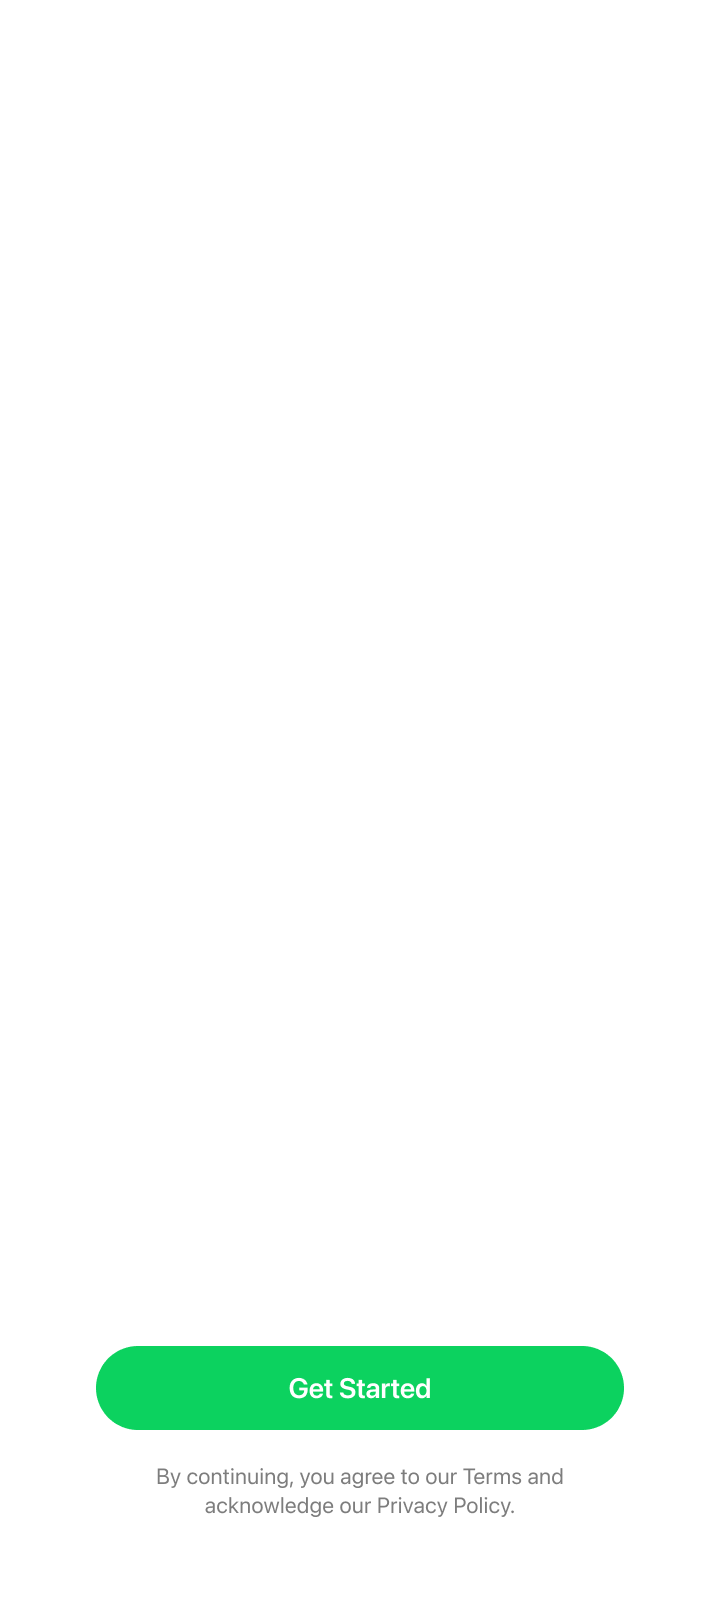
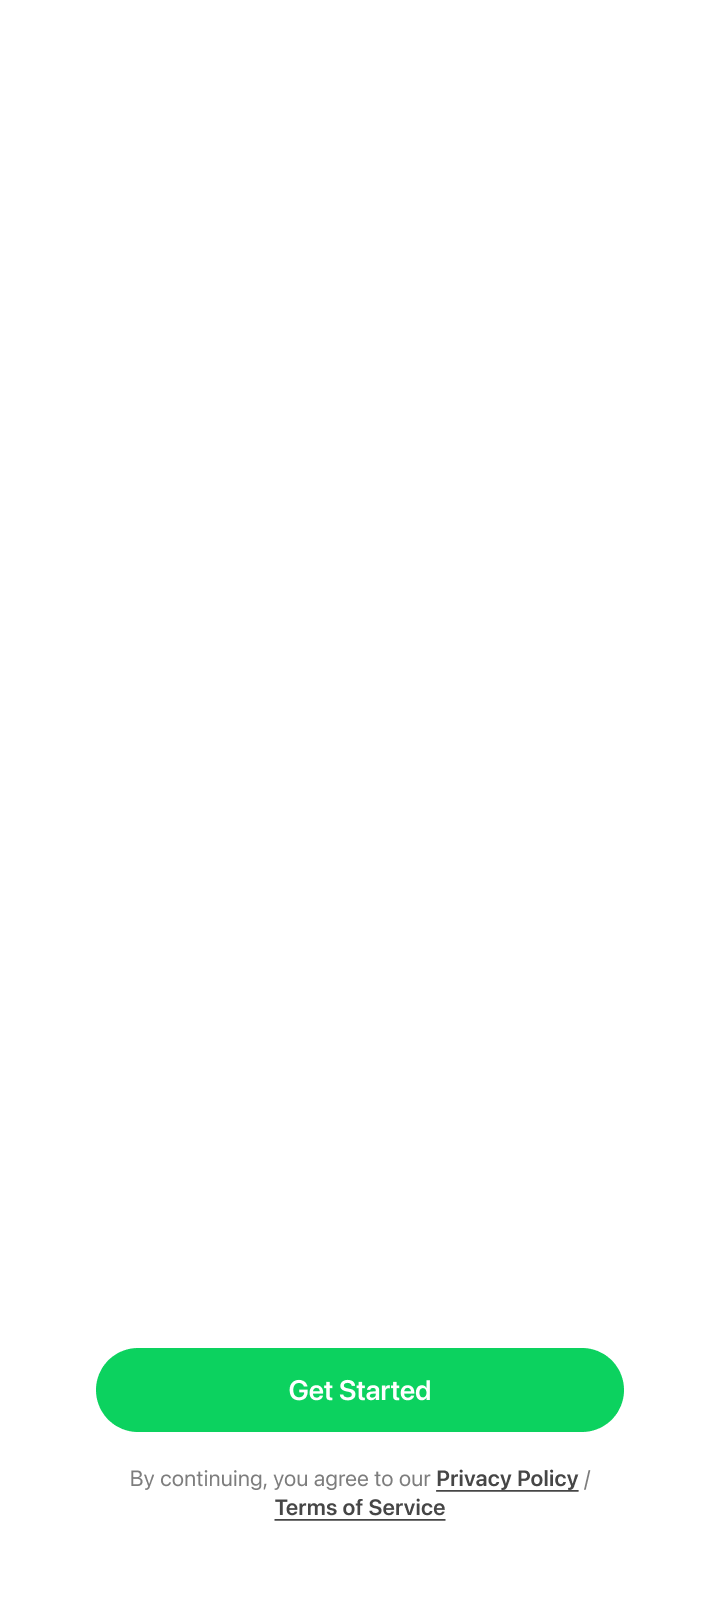
V1 C1: Part 2 motion polish and new policy style
- Red/green glows start with the ringing ripple, red first then green 0.4s later
- Ringing ripple on the answer handle until it slides to Decline
- Dialog pops in with the reference jelly (damped squash/stretch from the centre),
  then the icon, title, number line, description bar and Vee pop in one by one
- Dialog holds longer so users can read it before the auto-decline
- On Decline the red glow stays put and only the green glow fades out
- After Decline the speech bubble floats in sync with Vee's idle loop
- Bottom policy uses the new Figma style (Privacy Policy / Terms of Service)

Changed region(s): [[0.1833, 0.9062, 0.7944, 0.9688], [0.3972, 0.8438, 0.6111, 0.875]]

diff --git a/index.html b/index.html
@@ -178,15 +178,34 @@ h1{font-size:24px;line-height:31px;font-weight:600;margin:0;text-wrap:balance}
 @keyframes shl{0%,100%{opacity:.35;transform:none}50%{opacity:.9;transform:translateX(-2px)}}
 @keyframes shr{0%,100%{opacity:.35;transform:none}50%{opacity:.9;transform:translateX(2px)}}
 .v1.nosearch.s4 .chev,.v1.nosearch.go .chev{opacity:0;animation:none}
-/* C1 Part 2 is non-interactive (2026-11-16): the handle is part of the animation (no drag), no chevrons. The pill ends glow (red, then green), then the handle slides to Decline while red spreads across the pill, and the call declines. */
+/* C1 Part 2 is non-interactive (2026-11-16): the handle is part of the animation (no drag), no chevrons. The pill ends glow (red, then green), then the handle slides to Decline while the green glow fades out (red stays put), and the call declines. */
 .v1.nosearch .chev{display:none}
 .v1.nosearch .handle{pointer-events:none;cursor:default}
-.v1.nosearch.glow .eg.l{animation:egin .4s ease-out .6s both} .v1.nosearch.glow .eg.r{animation:egin .4s ease-out 1.2s both}
+/* C1 dialog pop = jelly bounce (2026-11-16, per reference recording): grows from small with a slight tilt, squashes/stretches a few times, settles in ~0.75s */
+.v1.nosearch .c3{transform-origin:50% 50%}
+/* Dialog jelly (2026-11-16, values from the reference dialog-banner.html): grows in over 0.3s, then a damped squash/stretch
+   sx = 1+j, sy = 1-0.9j, j = 0.17·e^(-4.2u)·sin(15u) from u = 0.2s; no tilt (kept centred). Contents pop in one by one from 0.5s,
+   0.1s apart, each 0.35s: scale 0.5→1 with back-out overshoot (2.2), fade in over the first half. Keyframes are generated in JS (DLG_*). */
+.v1 .dsh{background-size:184px 122px;background-position:0 0}
+.v1 .dp{position:absolute;inset:0;background-size:184px 122px;background-position:0 0;background-repeat:no-repeat}
+.v1.nosearch.anim.s3 .c3{animation:dlgJelly var(--dlgD) linear both}
+.v1.nosearch.anim.s3 .dp0{animation:dlgP0 var(--dlgD) linear both} .v1.nosearch.anim.s3 .dp1{animation:dlgP1 var(--dlgD) linear both}
+.v1.nosearch.anim.s3 .dp2{animation:dlgP2 var(--dlgD) linear both} .v1.nosearch.anim.s3 .dp3{animation:dlgP3 var(--dlgD) linear both}
+.v1.nosearch.anim.s3 .dp4{animation:dlgP4 var(--dlgD) linear both}
+/* Glows start with the ringing ripple (2026-11-16): red (Decline) fades in with the ripple, green (Answer) follows 0.4s later so the light sweeps left to right; each 0.6s, then they stay lit while the dialog shows */
+.v1.nosearch.s1 .eg.l{animation:egin .6s ease-in-out both} .v1.nosearch.s1 .eg.r{animation:egin .6s ease-in-out .4s both}
+.v1.nosearch.glow .eg{opacity:1;animation:none}
 @keyframes egin{from{opacity:0}to{opacity:1}}
+/* Ringing ripple on the answer handle: two soft white rings, looping while the phone rings, stop once the handle slides to Decline */
+.v1.nosearch .handle::before,.v1.nosearch .handle::after{content:'';position:absolute;inset:0;border-radius:50%;pointer-events:none;opacity:0}
+.v1.nosearch.s1 .handle::before,.v1.nosearch.s1 .handle::after,.v1.nosearch.glow:not(.spread) .handle::before,.v1.nosearch.glow:not(.spread) .handle::after{opacity:1;animation:hripple 1.4s ease-out infinite}
+.v1.nosearch.s1 .handle::after,.v1.nosearch.glow:not(.spread) .handle::after{animation-delay:.7s}
+@keyframes hripple{0%{box-shadow:0 0 0 0 rgba(255,255,255,.6)}100%{box-shadow:0 0 0 12px rgba(255,255,255,0)}}
+.v1.nosearch.glow.still .handle::before{animation:none;box-shadow:0 0 0 5px rgba(255,255,255,.3)} .v1.nosearch.glow.still .handle::after{animation:none;opacity:0}
 .v1.nosearch.glow.still .eg{opacity:1;animation:none}
-.v1.nosearch.spread .eg.l,.v1.nosearch.go .eg.l{opacity:1;animation:none;width:160px;border-radius:28px;background:linear-gradient(90deg,rgba(255,77,94,.9),rgba(255,77,94,.4))}
-.v1.nosearch.spread .eg.l{transition:width .5s cubic-bezier(.5,0,.3,1)}
-.v1.nosearch.spread .eg.r{animation:egout .3s ease-in both} .v1.nosearch.go .eg.r{opacity:0;animation:none}
+/* Decline slide (2026-11-16): the red glow stays as it is (no stretch across the pill); only the green glow fades out while the handle slides left */
+.v1.nosearch.spread .eg.l,.v1.nosearch.go .eg.l{opacity:1;animation:none}
+.v1.nosearch.spread .eg.r{animation:egout .45s ease-out both} .v1.nosearch.go .eg.r{opacity:0;animation:none}
 @keyframes egout{from{opacity:1}to{opacity:0}}
 
 .v1 .handle.spring{transition:left .35s cubic-bezier(.3,1.5,.5,1)}
@@ -224,6 +243,10 @@ h1{font-size:24px;line-height:31px;font-weight:600;margin:0;text-wrap:balance}
 @keyframes bob{0%,100%{transform:none}50%{transform:translateY(-3px) rotate(-4deg)}}
 @keyframes bubin{0%{opacity:0;transform:scale(.3)}100%{opacity:1;transform:none}}
 @keyframes fadeclip{to{opacity:0}}
+.v1.nosearch .bub{will-change:transform,translate}
+/* C1 after Decline (2026-11-16): the bubble breathes with Vee. JS (veeSync) reads the Vee Lottie's current frame on every enterFrame and moves the bubble
+   by the same vertical offset Vee's body has in its idle loop (frames 240–420 = 3 s at 60 fps).
+   Uses the `translate` / `scale` properties so it never fights the pop-in transform. */
 /* ---------- V2: slider on the visible phone-screen rect (x50 y82 w260 h410) ---------- */
 .v2 .afterwrap{position:absolute;inset:0;clip-path:inset(0 0 0 calc((50px + 260px * var(--p))))}
 .v2 .glowl{opacity:var(--g,0);transition:opacity .25s ease-out}
@@ -371,7 +394,7 @@ html.pvon,html.pvon body{overflow:hidden}
 <script>
 const HIDE_C2=true; if(HIDE_C2) document.documentElement.classList.add('hide-c2');
 const A='prototype_assets/';
-const VER='?v=20261116b';
+const VER='?v=20261116d';
 const NOSEARCH=new Set(['c1']); // candidates that skip the Searching beat (phone vibrates instead)
 const BEATS=['Ringing','Searching','Identified','Declined','Answered'];
 const screens=[...document.querySelectorAll('.screen')];
@@ -380,7 +403,19 @@ let ver='v1', playing=true; const sliders=[];
 const bg=(c,f)=>`background-image:url(${A}${f.replace('C',c)}${VER})`;
 const GEO={c1:{C:70,MIN:16,MAX:124,HW:44},c2:{C:68,MIN:16,MAX:120,HW:48}}, G=c=>GEO[c.el.dataset.c]||GEO.c2, TRIG=36; const HINT_AT=600, HINT_LEN=1200, AUTO_NS=3500, P1_LEN=3900; // C1: idle 3.5 s in wait → auto-slide to Decline           // handle left (px) inside the clip
 const T_S2=1500, T_S3=2700, AUTO=4500;
-const GLOW_LEN=1800, SPREAD_LEN=560; // C1 Part 2 (static): glows 0.6–1.6s after the dialog, then the handle slides to Decline as red spreads (0.56s) before the call declines
+/* C1 dialog: parts in reveal order (icon, title, number line, description bar, Vee) with their centres in the 184×122 dialog crop */
+const DLG_PARTS=[{f:'p1_icon',x:32,y:30},{f:'p2_title',x:49,y:53},{f:'p3_number',x:72,y:72},{f:'p4_desc',x:70,y:102},{f:'p5_vee',x:150,y:103}];
+const DLG={grow:.3,s0:.55,jStart:.2,amount:.17,damp:4.2,freq:15,partsAt:.5,gap:.1,partLen:.35,back:2.2,len:1.3};
+(function(){ const cl=x=>x<0?0:x>1?1:x, seg=(t,a,b)=>cl((t-a)/(b-a)), eo=x=>1-Math.pow(1-x,3), eob=(x,s)=>{const c=s+1;return 1+c*Math.pow(x-1,3)+s*Math.pow(x-1,2);}, f=v=>+v.toFixed(4);
+  const N=78; let k='', parts=DLG_PARTS.map(()=>'');
+  for(let i=0;i<=N;i++){ const t=DLG.len*i/N, pc=f(100*i/N)+'%';
+    const p=eo(seg(t,0,DLG.grow)), base=DLG.s0+(1-DLG.s0)*p, u=t-DLG.jStart, j=(u<0||i===N)?0:DLG.amount*Math.exp(-DLG.damp*u)*Math.sin(DLG.freq*u);
+    k+=`${pc}{opacity:${f(p)};transform:scale(${f(base*(1+j))},${f(base*(1-.9*j))})}`;
+    DLG_PARTS.forEach((d,n)=>{ const a=DLG.partsAt+n*DLG.gap, q=seg(t,a,a+DLG.partLen), sc=q<=0?.5:.5+.5*eob(q,DLG.back);
+      parts[n]+=`${pc}{opacity:${f(eo(Math.min(1,q*2)))};transform:scale(${f(sc)})}`; }); }
+  const st=document.createElement('style'); st.textContent=`:root{--dlgD:${DLG.len}s}@keyframes dlgJelly{${k}}`+parts.map((p,n)=>`@keyframes dlgP${n}{${p}}`).join('');
+  document.head.appendChild(st); })();
+const GLOW_LEN=3200, SPREAD_LEN=560; // C1 Part 2 (static): glows are already lit from ringing; the dialog jelly + content reveal takes ~1.25s, then it holds ~2s so users can read it, then the handle slides to Decline as red spreads (0.56s) before the call declines
 const ctrls=screens.map(el=>({el,timers:[],state:'s1',extra:'',choice:'dec',busy:false}));
 const VEE=`<div class="vee" aria-live="polite"><p class="bub"><span class="bd">You avoided a high-risk call!</span><span class="ba">Now you know who's calling you!</span></p><img src="${'prototype_assets/'}vee.svg" alt=""></div>`;
 const VEE_NS=`<div class="vee" aria-live="polite"><p class="bub"><span class="bd">You avoided a high-risk call!</span><span class="ba">Now you know who's calling you!</span></p><div class="veel" aria-hidden="true"><div class="veelin"></div></div></div>`;
@@ -390,7 +425,7 @@ function renderV1(el){const c=el.dataset.c; const ctl=ctrls.find(x=>x.el===el);
   <div class="phw">${ns?`<div class="layer" style="${bg(c,'v1_C_phone.png')}"></div>`:''}
   <div class="clip"><i class="pulse"></i>
     ${ns?'':`<div class="crop cd c2" style="${bg(c,'v1_C_b2.png')}"></div>`}
-    <div class="crop cd c3" style="${bg(c,'v1_C_b3.png')}"></div>
+    ${ns?`<div class="crop cd c3 dsh" style="${bg(c,'v1_C_dlg_shell.png')}">${DLG_PARTS.map((d,i)=>`<i class="dp dp${i}" style="${bg(c,'v1_C_dlg_'+d.f+'.png')};transform-origin:${d.x}px ${d.y}px"></i>`).join('')}</div>`:`<div class="crop cd c3" style="${bg(c,'v1_C_b3.png')}"></div>`}
     ${ns?'<i class="eg l"></i><i class="eg r"></i><span class="chev l" aria-hidden="true"><i></i><i></i></span><span class="chev r" aria-hidden="true"><i></i><i></i></span>':''}
     <i class="flood"></i>
     <div class="crop full c4d" style="${bg(c,'v1_C_b4d_clean.png')}">${ns?'':'<div class="b4"><p class="num">+63 123 456 0000</p><span class="rtag">Call declined</span></div>'}</div>
@@ -412,7 +447,16 @@ const ROWS_SPEED=0.6; // slower than global (1.0) so the background stays calm
 let VEEJ=null; const veeData=fetch(A+'v1_c1_vee_cheer.json'+VER).then(r=>r.json()).then(j=>VEEJ=j).catch(()=>null);
 function mountVee(c){ const box=c.el.querySelector('.veelin'); if(!box||!window.lottie) return;
   veeData.then(()=>{ if(!VEEJ) return; const a=lottie.loadAnimation({container:box,renderer:'svg',loop:false,autoplay:false,animationData:JSON.parse(JSON.stringify(VEEJ))});
-    a.addEventListener('complete',()=>{ if(c.veeOn){ a.loop=true; a.playSegments([240,420],true); } }); c.vee=a; a.goToAndStop(300,true); }); }
+    a.addEventListener('complete',()=>{ if(c.veeOn){ a.loop=true; a.playSegments([240,420],true); } }); a.addEventListener('enterFrame',()=>veeSync(c)); c.vee=a; a.goToAndStop(300,true); }); }
+/* Vee body top (Lottie units, 360×460 comp) through the idle loop, sampled every 5 frames from 240 to 420; the bubble copies this offset (× the Vee layer scale .467) */
+const VEE_Y=[143.3,143.4,143.5,143.7,143.8,144.1,144.3,144.6,144.9,145.2,145.5,145.9,146.2,146.6,146.9,147.2,147.5,147.7,147.9,148.1,148.2,148.3,148.3,148.3,148.2,148.1,147.9,147.7,147.5,147.2,146.9,146.6,146.2,145.8,145.5,145.2,145.1];
+function veeSync(c){ const b=c.el.querySelector('.bub'); if(!b||!c.vee) return;
+  const f=c.vee.currentFrame+(c.vee.firstFrame||0); if(!c.veeOn||f<240){ b.style.translate=''; b.style.scale=''; return; }
+  const i=Math.min(VEE_Y.length-1.001,(f-240)/5), k=Math.floor(i), y=VEE_Y[k]+(VEE_Y[k+1]-VEE_Y[k])*(i-k);
+  // offset only (no scale: scaling the text every frame made it shimmer, and switching it on at frame 240 made the bubble jump);
+  // the small drift between frame 240 and 420 is removed so the loop restart is seamless, and the offset starts at 0 so the hand-off from the cheer is smooth
+  const off=(y-143.3)-(VEE_Y[VEE_Y.length-1]-143.3)*(f-240)/180;
+  b.style.translate=`0 ${(off*.467).toFixed(2)}px`; b.style.scale=''; }
 function veeState(c,st){ if(!c.vee) return; if(st==='s4'){ if(c.veeOn) return; c.veeOn=true; c.vee.loop=false; if(reduce){ c.vee.goToAndStop(195,true); return; } setTimeout(()=>{ if(c.veeOn) c.vee.playSegments([152,420],true); },100); } else if(c.veeOn){ c.veeOn=false; c.vee.loop=false; c.vee.goToAndStop(300,true); } }
 let DIAL=null; const dialData=fetch(A+'v1_c1_p1_dial.json'+VER).then(r=>r.json()).then(j=>DIAL=j).catch(()=>null);
 function mountDial(c){ const box=c.el.querySelector('.p1d'); if(!box||!window.lottie) return;
@@ -579,7 +623,7 @@ function onHash(){ if(suppressHash){ suppressHash=false; syncHash(false); return
   if(r.v!==ver) setVer(r.v); }
 window.addEventListener('hashchange',onHash); window.addEventListener('popstate',onHash);
 new Image().src=`${A}v1_handle.png${VER}`;
-['c1','c2'].forEach(c=>{(NOSEARCH.has(c)?['bg_nobars','phone','b3','b4d_clean','b4a_clean','handle','p1_fs','title','btm']:['b1','b2','b3','b4d_clean','b4a_clean']).forEach(b=>{new Image().src=`${A}v1_${c}_${b}.png${VER}`;});['before','after','before_glow','after_glow'].forEach(s=>{new Image().src=`${A}v2_${c}_${s}.png${VER}`;});});
+['c1','c2'].forEach(c=>{(NOSEARCH.has(c)?['bg_nobars','phone','b3','b4d_clean','b4a_clean','handle','p1_fs','title','btm','dlg_shell','dlg_p1_icon','dlg_p2_title','dlg_p3_number','dlg_p4_desc','dlg_p5_vee']:['b1','b2','b3','b4d_clean','b4a_clean']).forEach(b=>{new Image().src=`${A}v1_${c}_${b}.png${VER}`;});['before','after','before_glow','after_glow'].forEach(s=>{new Image().src=`${A}v2_${c}_${s}.png${VER}`;});});
 { const r=parseHash(); if(r.pv) openPv(r.v,r.c,{push:false,fs:false}); else setVer(r.v); }
 </script>
 </html>
